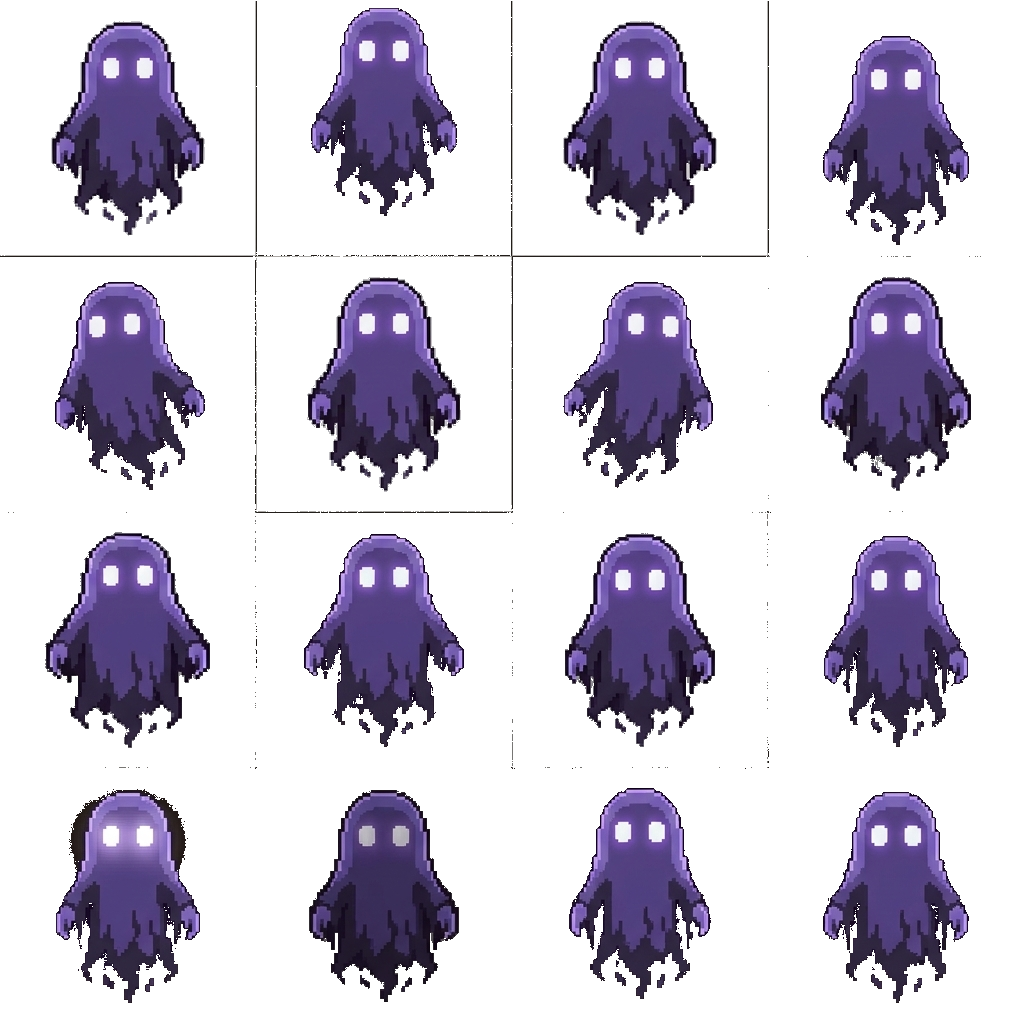
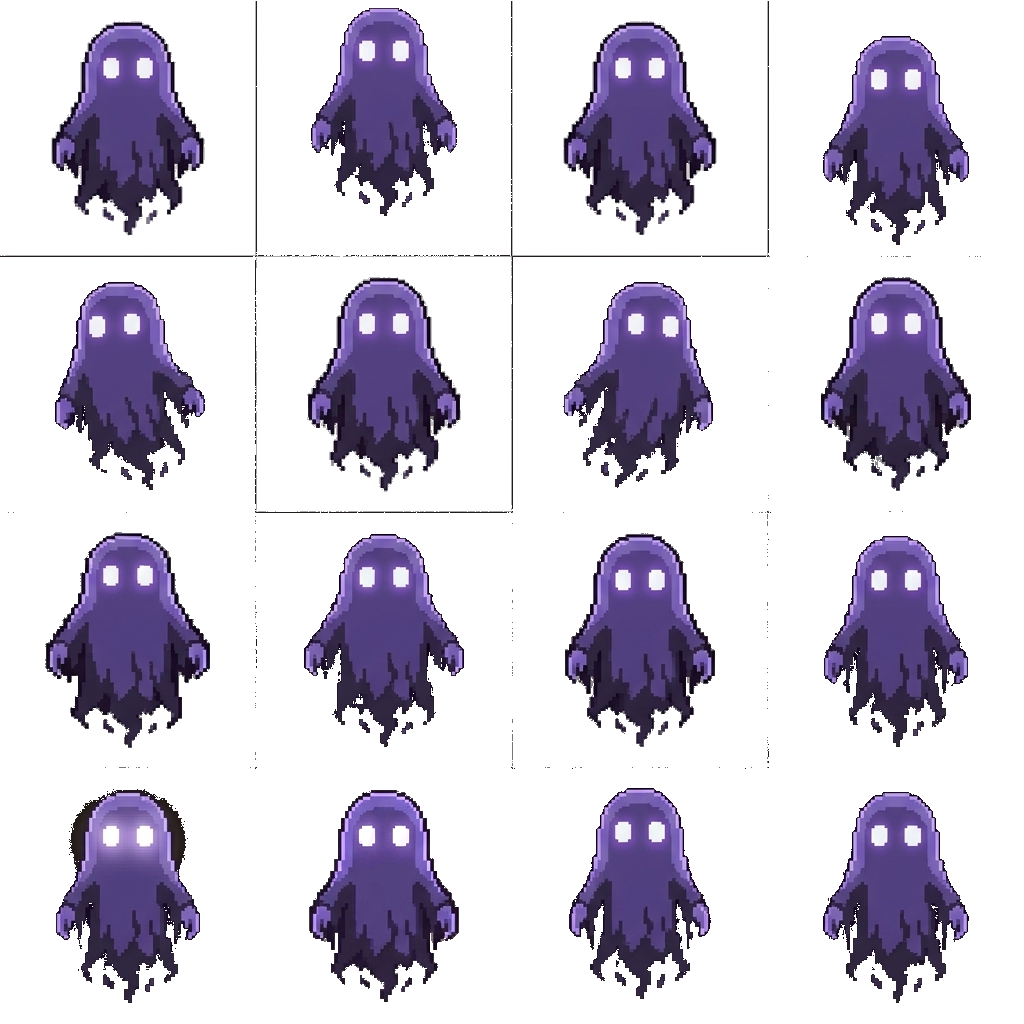
fix: 幽灵精灵帧13亮度修复 + sprite-animator API调用确认规则
Frame 13 亮度从62.9提升至90.0，消除16帧动画循环中的闪烁暗帧。
新增skill强制确认：调用Gemini API前必须向用户确认费用。

Changed region(s): [[0.2812, 0.75, 0.4688, 0.9375]]

diff --git a/.claude/skills/sprite-animator/SKILL.md b/.claude/skills/sprite-animator/SKILL.md
@@ -10,6 +10,22 @@ description: Generate animated pixel art sprites from any image using Gemini API
 
 **核心原则：脚本是通用模板，不需要为每个怪物修改。** 所有怪物特定的内容（prompt、参考图）都通过 CLI 参数传入。
 
+## ⚠ API 调用确认（强制）
+
+**在执行任何调用 Gemini API 的命令（`generate_sprite.py`）之前，必须先向用户确认。**
+
+确认内容必须包含：
+1. **预估调用**：说明即将调用 Gemini API（通过 yunwu.ai 代理）
+2. **参数摘要**：精灵名称、是否使用参考图、prompt 摘要（前50字）
+3. **费用提醒**：明确告知用户"此 API 调用会产生费用"
+
+**禁止行为**：
+- ❌ 不经确认直接执行 `generate_sprite.py`
+- ❌ 在用户未回复确认时自动执行
+- ❌ 将确认步骤视为可选
+
+**唯一例外**：用户明确说"直接生成"、"不需要确认"等授权语句时，可跳过确认。
+
 ## API Configuration
 
 Credentials are stored in project root `.env` (not committed to Git):
